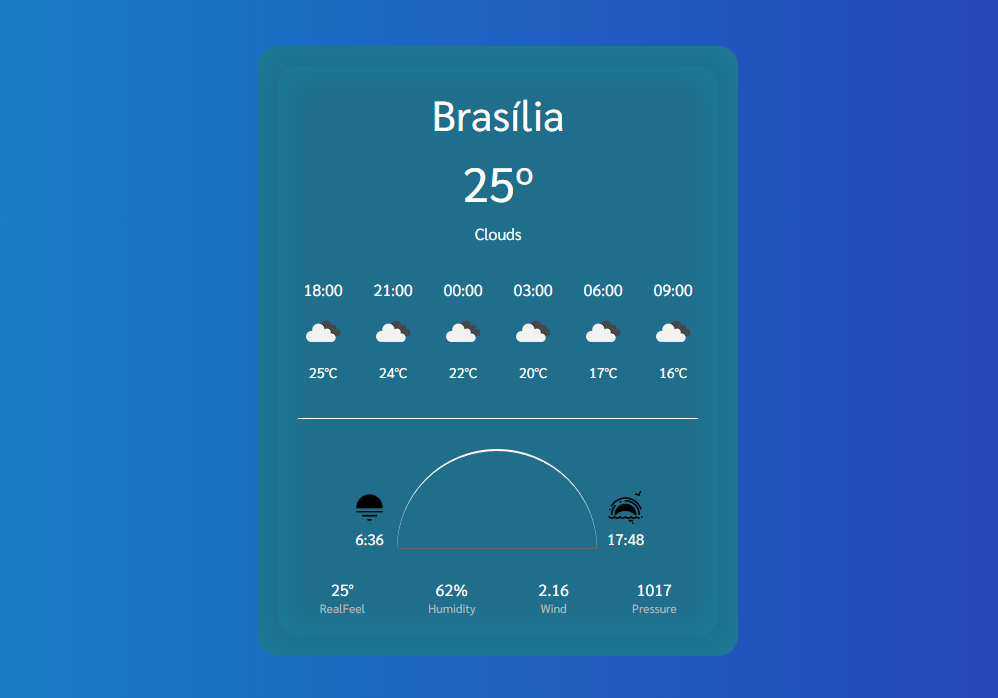
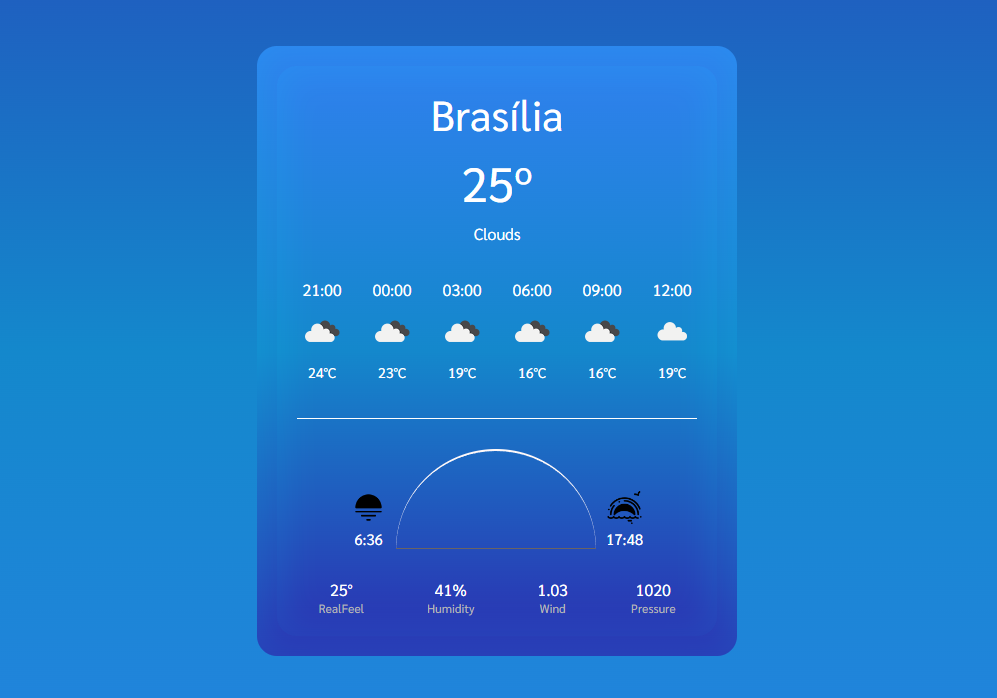
feat - gradient updated and fix on loading component.
The loading component (mobile version) was being placed in the top left border.

diff --git a/src/components/Weather.jsx b/src/components/Weather.jsx
@@ -1,20 +1,21 @@
-import React from 'react';
-import styled from 'styled-components';
+import React from "react";
+import styled from "styled-components";
 
 const StyledWeather = styled.h3`
-    font-family: 'Sarabun';
-    font-style: normal;
-    font-weight: 300;
-    font-size: 16px;
-    text-align: center;
-    
-    color: #ffffff;
+  font-family: "Sarabun";
+  font-style: normal;
+  font-weight: 300;
+  font-size: 16px;
+  text-align: center;
+  color: #ffffff;
+
+  @media (max-width: 576px) {
+    padding: 20px 0;
+  }
 `;
 
 const Weather = ({ weather }) => {
-    return (
-        <StyledWeather>{weather}</StyledWeather>
-    )
+  return <StyledWeather>{weather}</StyledWeather>;
 };
 
 export default Weather;

diff --git a/src/components/Title.jsx b/src/components/Title.jsx
@@ -1,17 +1,20 @@
-import React from 'react';
-import styled from 'styled-components';
+import React from "react";
+import styled from "styled-components";
 
 const StyledTittle = styled.h1`
-    font-family: 'Sarabun';
-    font-style: normal;
-    font-weight: 400;
-    font-size: 42px;
+  font-family: "Sarabun";
+  font-style: normal;
+  font-weight: 400;
+  font-size: 42px;
+  color: #ffffff;
 
-    color: #FFFFFF;
+  @media (max-width: 576px) {
+    padding: 20px 0;
+  }
 `;
 
-const Title = ({title}) => {
-    return <StyledTittle>{title}</StyledTittle>
-}
+const Title = ({ title }) => {
+  return <StyledTittle>{title}</StyledTittle>;
+};
 
 export default Title;

diff --git a/src/components/Loading.jsx b/src/components/Loading.jsx
@@ -7,7 +7,6 @@ const StyledDiv = styled.div`
   width: 25px;
   height: 25px;
   animation: spin 2s linear infinite;
-  margin: 50px;
 
   transition: all 0.2s ease-in-out;
 
@@ -18,6 +17,13 @@ const StyledDiv = styled.div`
     100% {
       transform: rotate(360deg);
     }
+  }
+
+  @media (max-width: 576px) {
+    position: absolute;
+    top: 50%;
+    left: 50%;
+    transform: translate(-50%, -50%);
   }
 `;
 

diff --git a/src/components/Div.jsx b/src/components/Div.jsx
@@ -17,7 +17,7 @@ export const Widget = styled.div`
   max-width: 648px;
   max-height: 760px;
   padding: 20px;
-  background: rgb(31, 110, 140) 0%;
+  background: linear-gradient(180deg, #2f80ed, #1488CC, #2B32B2);
   backdrop-filter: blur(25px);
   border-radius: 20px;
   box-shadow: inset 0px 0px 30px 10px rgb(2, 240, 255, 0.1);

diff --git a/src/components/GlobalStyle.jsx b/src/components/GlobalStyle.jsx
@@ -16,7 +16,7 @@ section {
 
 @media (min-width: 578px) {
   body {
-    background: linear-gradient(90deg, #2f80ed, #1488CC, #2B32B2);
+    background: linear-gradient(360deg, #2f80ed, #1488CC, #2B32B2);
     background-size: 200% 200%;
     animation: gradientAnimation 20s ease-in-out infinite;
   }
